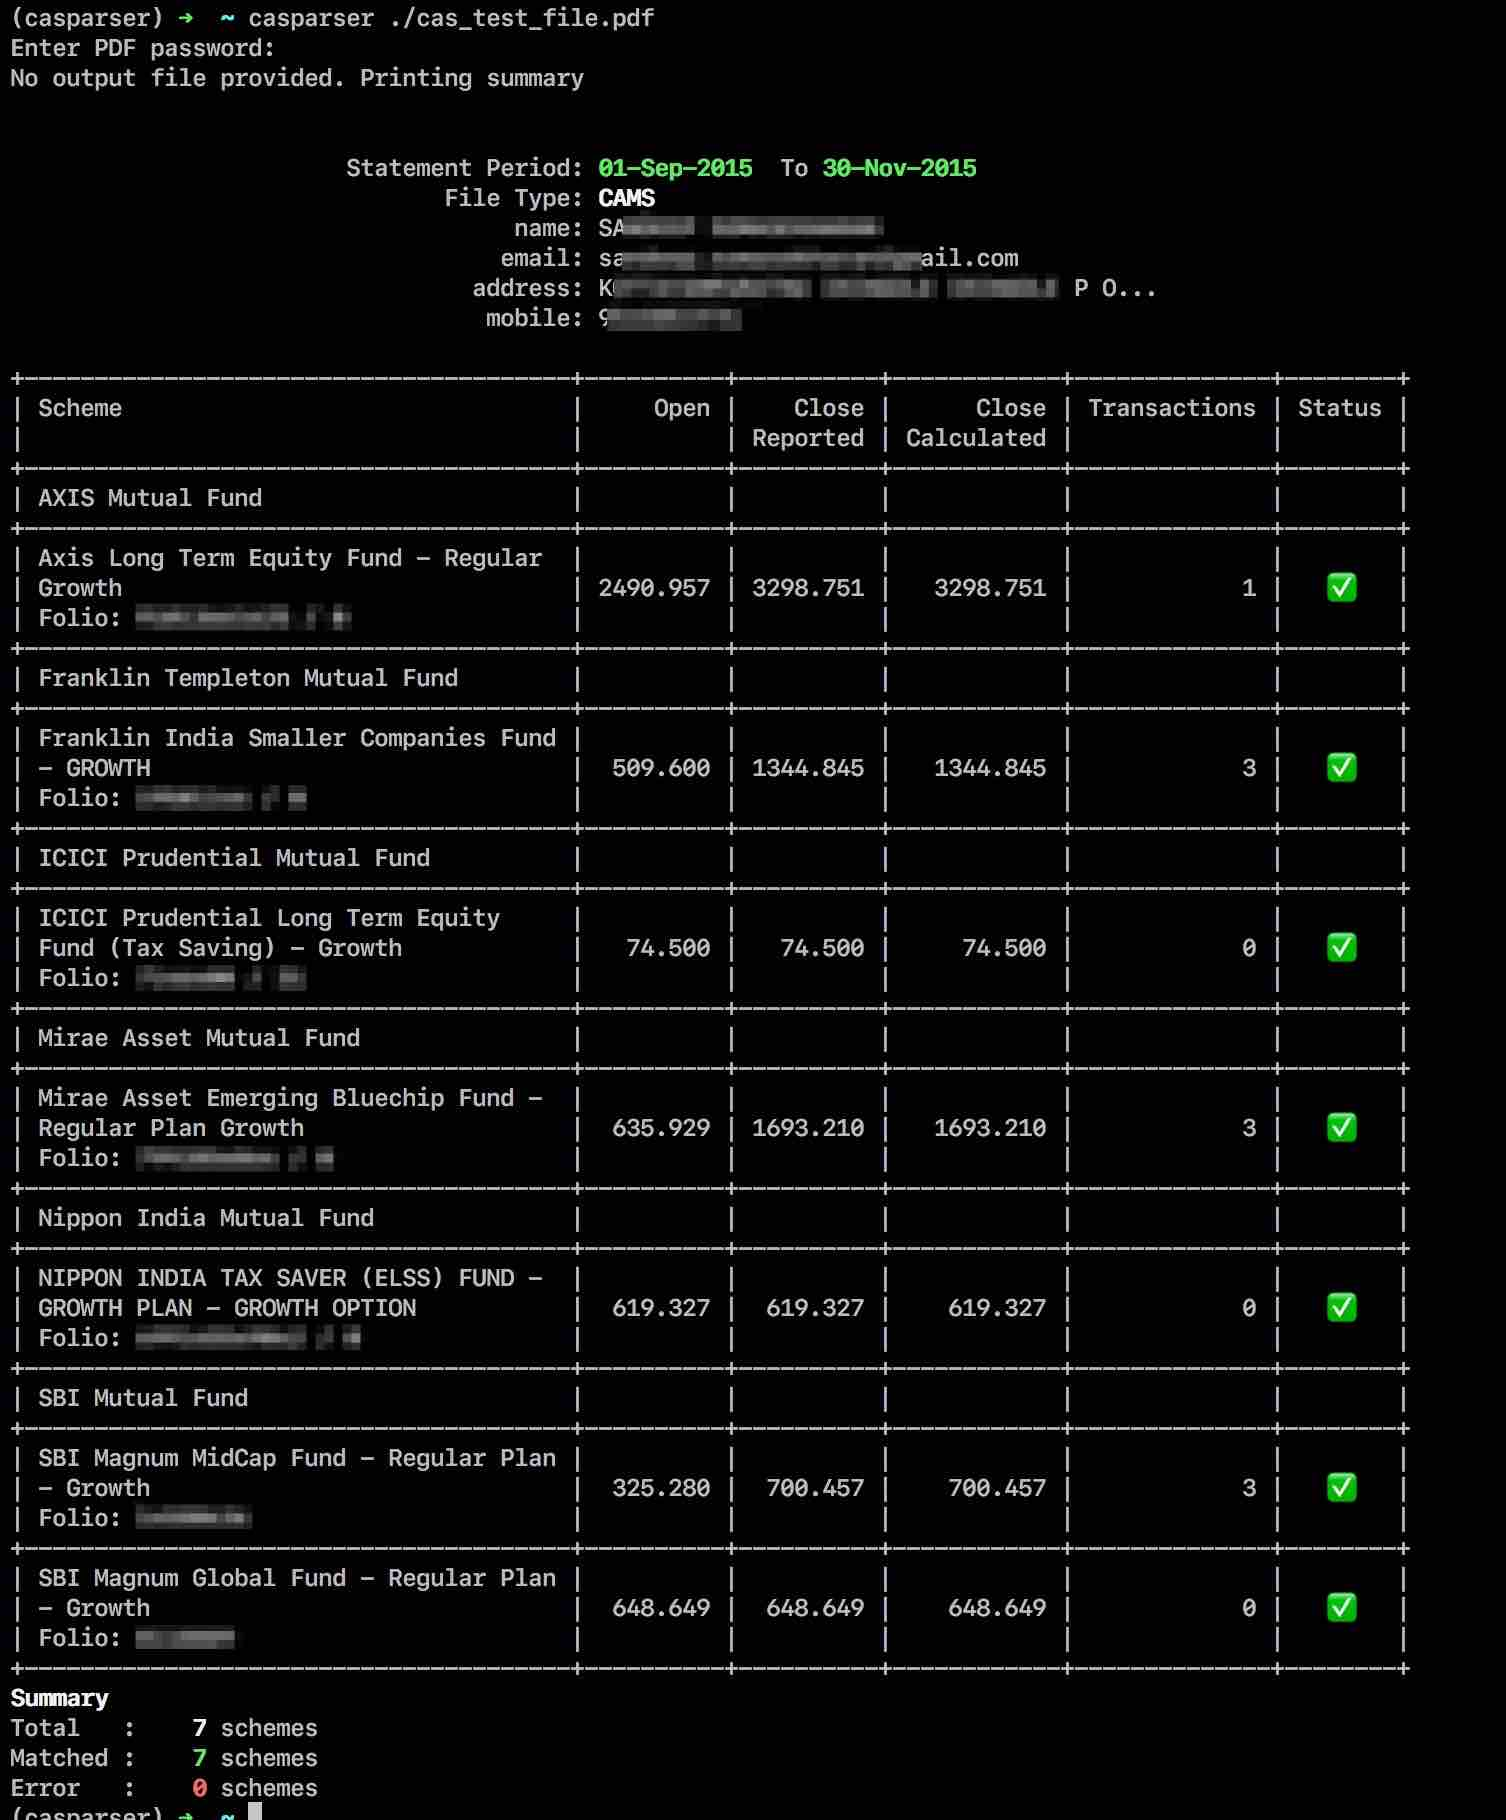
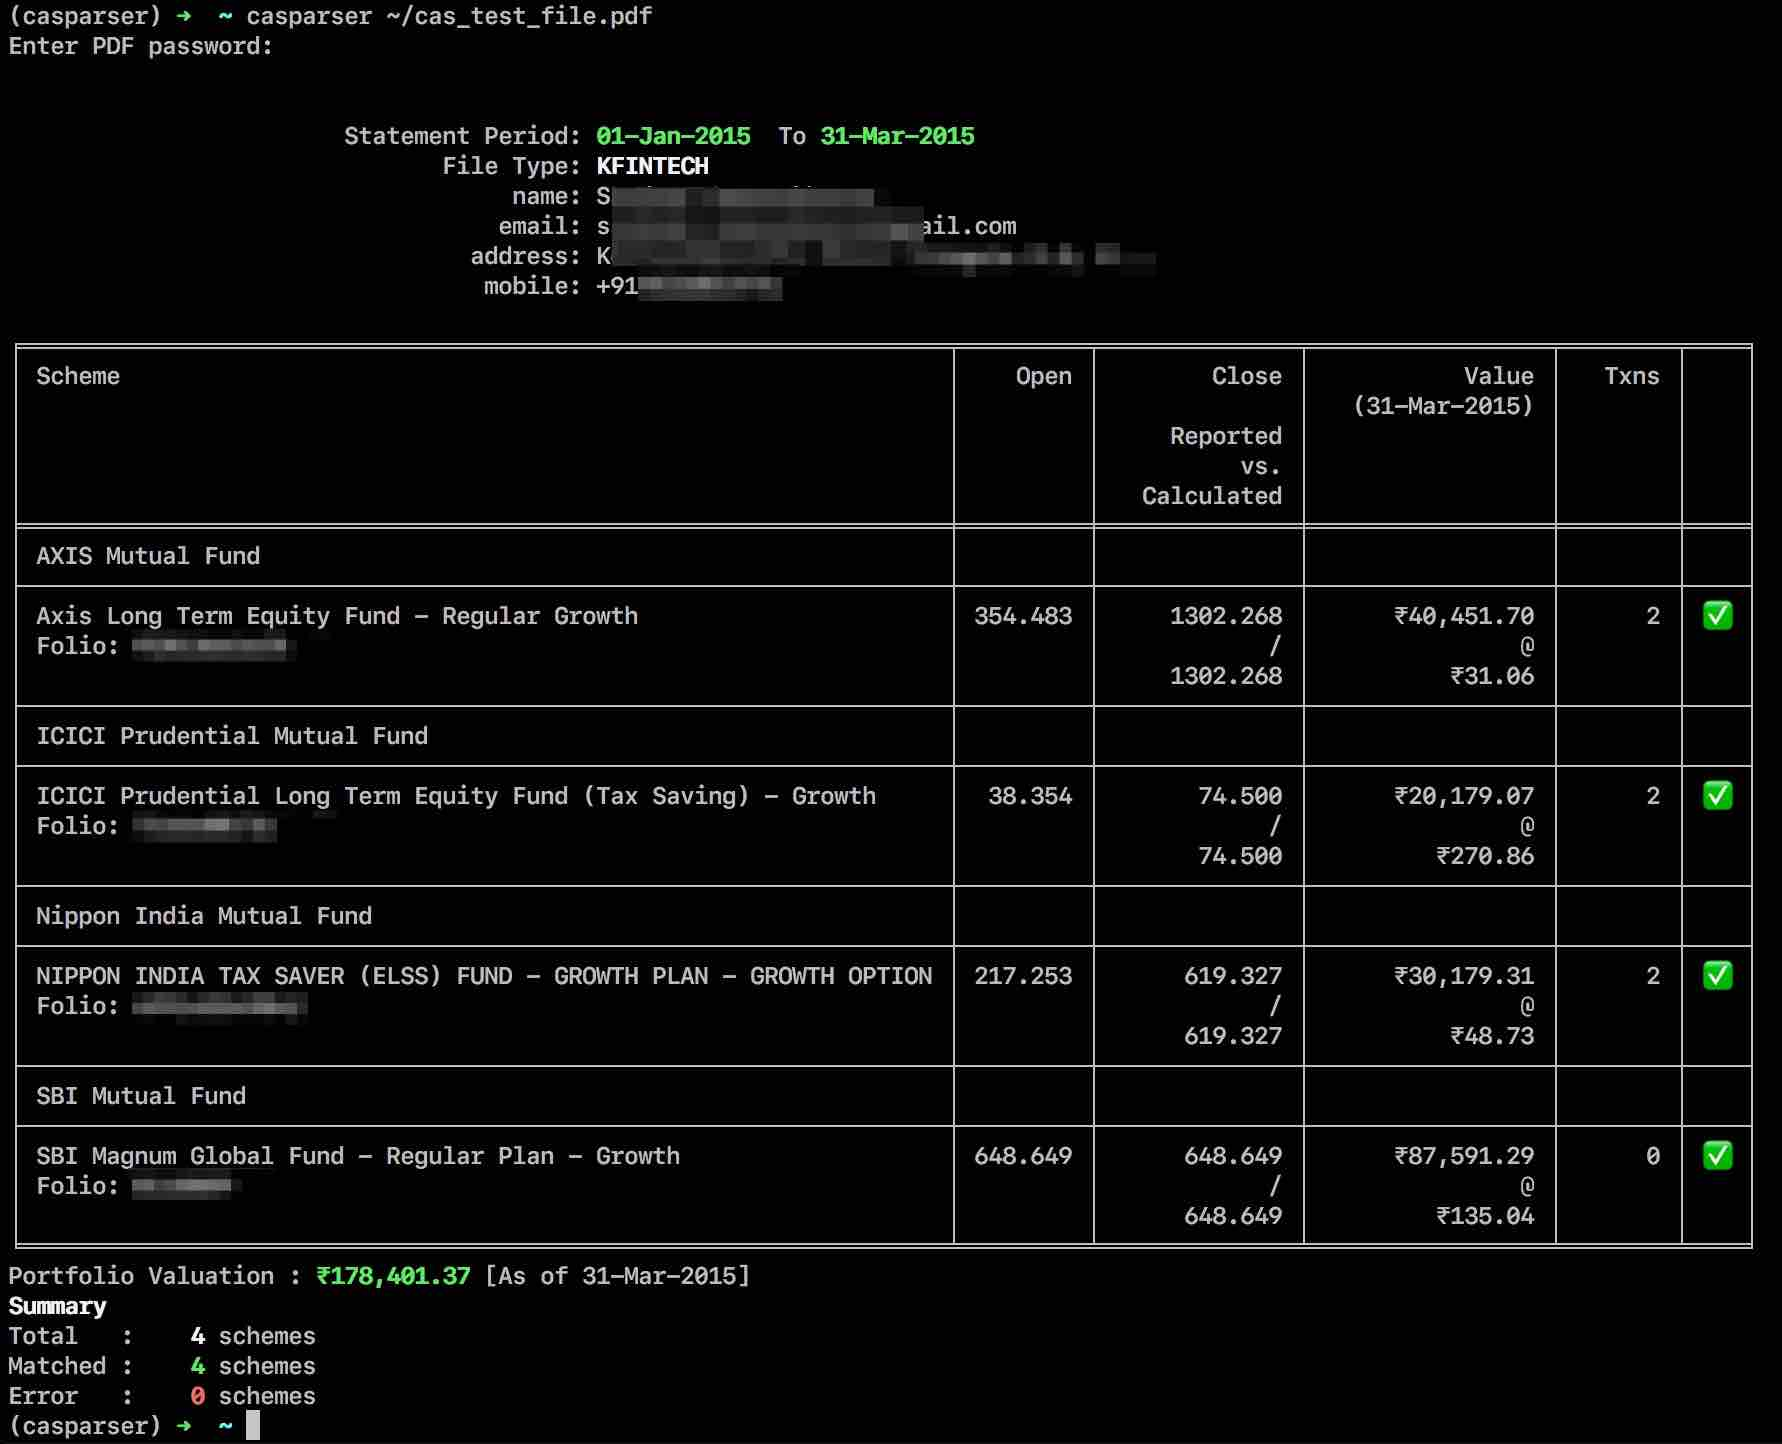
Merge pull request #6
* Support for saving summary in multiple formats.

* Support for parsing reported NAV for each scheme.

diff --git a/casparser/cli.py b/casparser/cli.py
@@ -1,108 +1,178 @@
 from decimal import Decimal
 import json
+import os
 import re
+import shutil
 import sys
+import textwrap
 
 import click
-import texttable
+
+# noinspection PyProtectedMember
+from tabulate import tabulate, _table_formats
+
 
 from .__version__ import __version__
 
 from . import read_cas_pdf
 from .encoder import CASDataEncoder
 from .exceptions import ParserException
+from .parsers.utils import isclose
 
 CONTEXT_SETTINGS = dict(help_option_names=["-h", "--help"])
 
 
-# noinspection PyUnusedLocal
-def validate_output_filename(ctx, param, filename: str):
-    """Validate whether output filename ends with json."""
-    if filename is None or filename.lower().endswith(".json"):
-        return filename
-    raise click.BadParameter("Output filename should end with .json")
-
-
-def print_summary(data):
+def print_summary(data, tablefmt="fancy_grid", output_filename=None, include_zero_folios=False):
     """Print summary of parsed data."""
     count = 0
     err = 0
-    click.echo("\n")
-    click.echo(
-        f"{'Statement Period':>40s}: "
-        f"{click.style(data['statement_period']['from'], fg='green', bold=True)}"
-        f"  To {click.style(data['statement_period']['to'], fg='green', bold=True)}"
-    )
-    click.echo(f"{'File Type':>40s}: {click.style(data['file_type'], bold=True)}")
-    for key, value in data["investor_info"].items():
-        fmt_value = " ".join([x.strip() for x in value.splitlines()])
-        fmt_value = re.sub(r"\s+", " ", fmt_value)
-        if len(fmt_value) > 40:
-            fmt_value = fmt_value[:37] + "..."
-        click.echo(f"{key:>40s}: {fmt_value}")
-    click.echo("")
-    table = texttable.Texttable(max_width=120)
+
+    if output_filename:
+        fmt = "fancy_grid"
+    else:
+        fmt = tablefmt
+
+    print_extra_info = fmt in ("simple", "plain", "fancy_grid", "grid", "pretty")
+    if print_extra_info:
+        click.echo("\n")
+        click.echo(
+            f"{'Statement Period':>40s}: "
+            f"{click.style(data['statement_period']['from'], fg='green', bold=True)}"
+            f"  To {click.style(data['statement_period']['to'], fg='green', bold=True)}"
+        )
+        click.echo(f"{'File Type':>40s}: {click.style(data['file_type'], bold=True)}")
+        for key, value in data["investor_info"].items():
+            fmt_value = " ".join([x.strip() for x in value.splitlines()])
+            fmt_value = re.sub(r"\s+", " ", fmt_value)
+            if len(fmt_value) > 40:
+                fmt_value = fmt_value[:37] + "..."
+            click.echo(f"{key:>40s}: {fmt_value}")
+        click.echo("")
+    rows = []
+    console_rows = []
+
+    console_header = [
+        "Scheme",
+        "Open",
+        "Close\n\nReported\nvs.\nCalculated",
+        f"Value\n({data['statement_period']['to']})",
+        "Txns",
+        "",
+    ]
     header = [
         "Scheme",
         "Open",
-        "Close\nReported",
-        "Close\nCalculated",
-        f"Value\n({data['statement_period']['to']})",
+        "Close Reported",
+        "Close Calculated",
+        f"NAV ({data['statement_period']['to']})",
+        f"Value ({data['statement_period']['to']})",
         "Transactions",
         "Status",
     ]
-    table.add_row(header)
-    table.set_cols_align(["l"] + ["r"] * (len(header) - 2) + ["c"])
-    table.set_cols_valign(["m"] * len(header))
+    col_align = ["left"] + ["right"] * (len(header) - 2) + ["center"]
+    console_col_align = ["left"] + ["right"] * (len(console_header) - 2) + ["center"]
+
     current_amc = None
     value = Decimal(0)
+    columns, _ = shutil.get_terminal_size()
+    scheme_col_width = columns - 66
+
+    folio_header_added = False
     for folio in data["folios"]:
         if current_amc != folio.get("amc", ""):
+            folio_header_added = False
             current_amc = folio["amc"]
-            table.add_row([current_amc] + [""] * 6)
         for scheme in folio["schemes"]:
+
+            if scheme["close"] < 1e-3 and not include_zero_folios:
+                continue
+
             calc_close = scheme["open"] + sum([x["units"] for x in scheme["transactions"]])
             valuation = scheme["valuation"]
-            if calc_close != scheme["close"]:
+
+            # Check is calculated close (i.e. open + units from all transactions) is same as
+            # reported close and also the scheme valuation = nav * calculated close.
+            if calc_close != scheme["close"] or not isclose(
+                valuation["nav"] * calc_close, valuation["value"], tol=2
+            ):
                 err += 1
                 status = "❗"
             else:
                 status = "✅"
-            scheme_name = f"{scheme['scheme']}\nFolio: {folio['folio']}"
+            wrapped_name = textwrap.fill(scheme["scheme"], width=scheme_col_width)
+            folio_number = re.sub(r"\s+", "", folio["folio"])
+            folio_string = textwrap.fill(f"Folio: {folio_number}", width=scheme_col_width)
+            scheme_name = f"{wrapped_name}\n{folio_string}"
             value += valuation["value"]
-            table.add_row(
+
+            if not folio_header_added:
+                rows.append(
+                    [textwrap.fill(current_amc, width=scheme_col_width)] + [""] * (len(header) - 1)
+                )
+                console_rows.append(
+                    [textwrap.fill(current_amc, width=scheme_col_width)]
+                    + [""] * (len(console_header) - 1)
+                )
+                folio_header_added = True
+
+            console_rows.append(
+                [
+                    scheme_name,
+                    scheme["open"],
+                    f"{scheme['close']}\n/\n{calc_close}",
+                    f"₹{valuation['value']:,.2f}\n@\n₹{valuation['nav']:,.2f}",
+                    len(scheme["transactions"]),
+                    status,
+                ]
+            )
+            rows.append(
                 [
                     scheme_name,
                     scheme["open"],
                     scheme["close"],
                     calc_close,
-                    f"₹{valuation['value']:,.2f}",
+                    valuation["nav"],
+                    valuation["value"],
                     len(scheme["transactions"]),
                     status,
                 ]
             )
             count += 1
-    click.echo(table.draw())
-    click.echo(
-        "Portfolio Valuation : "
-        + click.style(f"₹{value:,.2f}", fg="green", bold=True)
-        + f" [As of {data['statement_period']['to']}]"
-    )
-    click.secho("Summary", bold=True)
-    click.echo("Total   : " + click.style(f"{count:4d}", fg="white", bold=True) + " schemes")
-    click.echo("Matched : " + click.style(f"{count - err:4d}", fg="green", bold=True) + " schemes")
-    click.echo("Error   : " + click.style(f"{err:4d}", fg="red", bold=True) + " schemes")
+    if print_extra_info:
+        click.echo(tabulate(console_rows, console_header, tablefmt=fmt, colalign=console_col_align))
+        click.echo(
+            "Portfolio Valuation : "
+            + click.style(f"₹{value:,.2f}", fg="green", bold=True)
+            + f" [As of {data['statement_period']['to']}]"
+        )
+        click.secho("Summary", bold=True)
+        click.echo("Total   : " + click.style(f"{count:4d}", fg="white", bold=True) + " schemes")
+        click.echo(
+            "Matched : " + click.style(f"{count - err:4d}", fg="green", bold=True) + " schemes"
+        )
+        click.echo("Error   : " + click.style(f"{err:4d}", fg="red", bold=True) + " schemes")
+    else:
+        click.echo(tabulate(rows, header, tablefmt=fmt, colalign=col_align))
+
+    if output_filename:
+        with open(output_filename, "w") as f:
+            f.write(tabulate(rows, header, tablefmt=tablefmt, colalign=col_align))
+        click.echo("File saved : " + click.style(output_filename, bold=True))
 
 
 @click.command(name="casparser", context_settings=CONTEXT_SETTINGS)
 @click.option(
     "-o",
     "--output",
-    help="Output file path (json)",
-    callback=validate_output_filename,
-    type=click.Path(exists=False, dir_okay=False, writable=True),
+    help="Output file path",
+    type=click.Path(dir_okay=False, writable=True),
 )
-@click.option("-s", "--summary", is_flag=True, help="Print Summary of transactions parsed.")
+@click.option(
+    "-s",
+    "--summary",
+    type=click.Choice(_table_formats.keys()),
+    help="Print Summary of transactions parsed.",
+)
 @click.option(
     "-p",
     "password",
@@ -113,23 +183,35 @@ def print_summary(data):
     help="CAS password",
 )
 @click.option(
+    "-a",
+    "--include-all",
+    is_flag=True,
+    help="Include schemes with zero valuation in the summary output"
+)
+@click.option(
     "--force-pdfminer", is_flag=True, help="Force PDFMiner parser even if MuPDF is detected"
 )
 @click.version_option(__version__, prog_name="casparser-cli")
 @click.argument("filename", type=click.Path(exists=True), metavar="CAS_PDF_FILE")
-def cli(output, summary, password, force_pdfminer, filename):
+def cli(output, summary, password, include_all, force_pdfminer, filename):
     """CLI function."""
-    if output is None and not summary:
-        click.echo("No output file provided. Printing summary")
-        summary = True
+    output_ext = None
+    if output is not None:
+        output_ext = os.path.splitext(output)[-1].lower()
+
+    if not (summary or output_ext == ".json"):
+        summary = "fancy_grid"
+
     try:
         data = read_cas_pdf(filename, password, force_pdfminer=force_pdfminer)
     except ParserException as exc:
         click.echo("Error parsing pdf file :: " + click.style(str(exc), bold=True, fg="red"))
         sys.exit(1)
     if summary:
-        print_summary(data)
-    if output is not None:
+        print_summary(
+            data, tablefmt=summary, include_zero_folios=include_all, output_filename=None if output_ext == ".json" else output
+        )
+    if output_ext == ".json":
         with open(output, "w") as fp:
             json.dump(data, fp, cls=CASDataEncoder, indent=2)
         click.echo("File saved : " + click.style(output, bold=True))

diff --git a/casparser/process.py b/casparser/process.py
@@ -5,7 +5,7 @@ from dateutil import parser as date_parser
 
 from .exceptions import HeaderParseError, CASParseError
 from .regex import FOLIO_RE, HEADER_RE, SCHEME_RE
-from .regex import CLOSE_UNITS_RE, OPEN_UNITS_RE, VALUATION_RE, TRANSACTION_RE
+from .regex import CLOSE_UNITS_RE, NAV_RE, OPEN_UNITS_RE, VALUATION_RE, TRANSACTION_RE
 
 
 def parse_header(text):
@@ -64,7 +64,7 @@ def process_cas_text(text):
                     "rta": m.group(4).strip(),
                     "open": Decimal(0.0),
                     "close": Decimal(0.0),
-                    "valuation": {"date": None, "value": 0},
+                    "valuation": {"date": None, "value": 0, "nav": 0},
                     "transactions": [],
                 }
         if not curr_scheme_data:
@@ -78,6 +78,11 @@ def process_cas_text(text):
             curr_scheme_data["valuation"].update(
                 date=date_parser.parse(m.group(1)).date(),
                 value=Decimal(m.group(2).replace(",", "_")),
+            )
+        if m := re.search(NAV_RE, line, re.I):
+            curr_scheme_data["valuation"].update(
+                date=date_parser.parse(m.group(1)).date(),
+                nav=Decimal(m.group(2).replace(",", "_")),
             )
             continue
         if m := re.search(TRANSACTION_RE, line, re.DOTALL):

diff --git a/tests/test_mupdf.py b/tests/test_mupdf.py
@@ -26,18 +26,24 @@ class TestMuPDF(BaseTestClass):
         assert result.exit_code == 0
         assert "File saved" in result.output
 
-        fpath = tmpdir.join("output.txt")
+        fpath = tmpdir.join("output.html")
         result = runner.invoke(
-            cli, [self.cams_file_name, "-p", self.cams_password, "-o", fpath.strpath]
+            cli, [self.cams_file_name, "-p", self.cams_password, "-o", fpath.strpath, "-s", "html"]
         )
         assert result.exit_code != 1
-        assert "Output filename should end" in result.output
+        assert "File saved" in result.output
+
+        result = runner.invoke(
+            cli, [self.cams_file_name, "-p", self.cams_password, "-s", "html"]
+        )
+        assert result.exit_code != 1
+        assert "<table>\n<thead>" in result.output
 
         result = runner.invoke(cli, [self.kfintech_file_name, "-p", self.cams_password])
         assert result.exit_code != 0
         assert "Incorrect PDF password!" in result.output
 
-        result = runner.invoke(cli, [self.bad_file_name, "-p", ""])
+        result = runner.invoke(cli, [self.bad_file_name, "-p", "", "-a"])
         assert result.exit_code == 0
         assert re.search(r"Error\s+:\s+1\s+schemes", result.output) is not None
 

diff --git a/casparser/regex.py b/casparser/regex.py
@@ -9,6 +9,7 @@ SCHEME_RE = r"([\s\w]+)-\s*\d*\s*(.+?)\s*\(Advisor\s*:\s*(.+?)\)\s+Registrar\s*:
 OPEN_UNITS_RE = r"Opening\s+Unit\s+Balance.+?([\d,.]+)"
 CLOSE_UNITS_RE = r"Closing\s+Unit\s+Balance.+?([\d,.]+)"
 VALUATION_RE = r"Valuation\s+on\s+(\d{2}-[A-Za-z]{3}-\d{4})\s*:\s*INR\s*([\d,.]+)"
+NAV_RE = r"NAV\s+on\s+(\d{2}-[A-Za-z]{3}-\d{4})\s*:\s*INR\s*([\d,.]+)"
 
 TRANSACTION_RE = (
     r"(\d{2}-[A-Za-z]{3}-\d{4})\t\t([^\t]+?)\t\t([(\d,.]+)\)*\t\t"

diff --git a/casparser/types.py b/casparser/types.py
@@ -31,6 +31,7 @@ class SchemeValuationType(TypedDict):
     """Scheme valuation as of a given date."""
 
     date: Union[date, str]
+    nav: Union[Decimal, float]
     value: Union[Decimal, float]
 
 

diff --git a/README.md b/README.md
@@ -63,6 +63,7 @@ data = casparser.read_cas_pdf('/path/to/cas/pdf/file.pdf', 'password')
                     "close": "number",
                     "valuation": {
                       "date": "date",
+                      "nav": "number",
                       "value": "number"
                     },
                     "transactions": [
